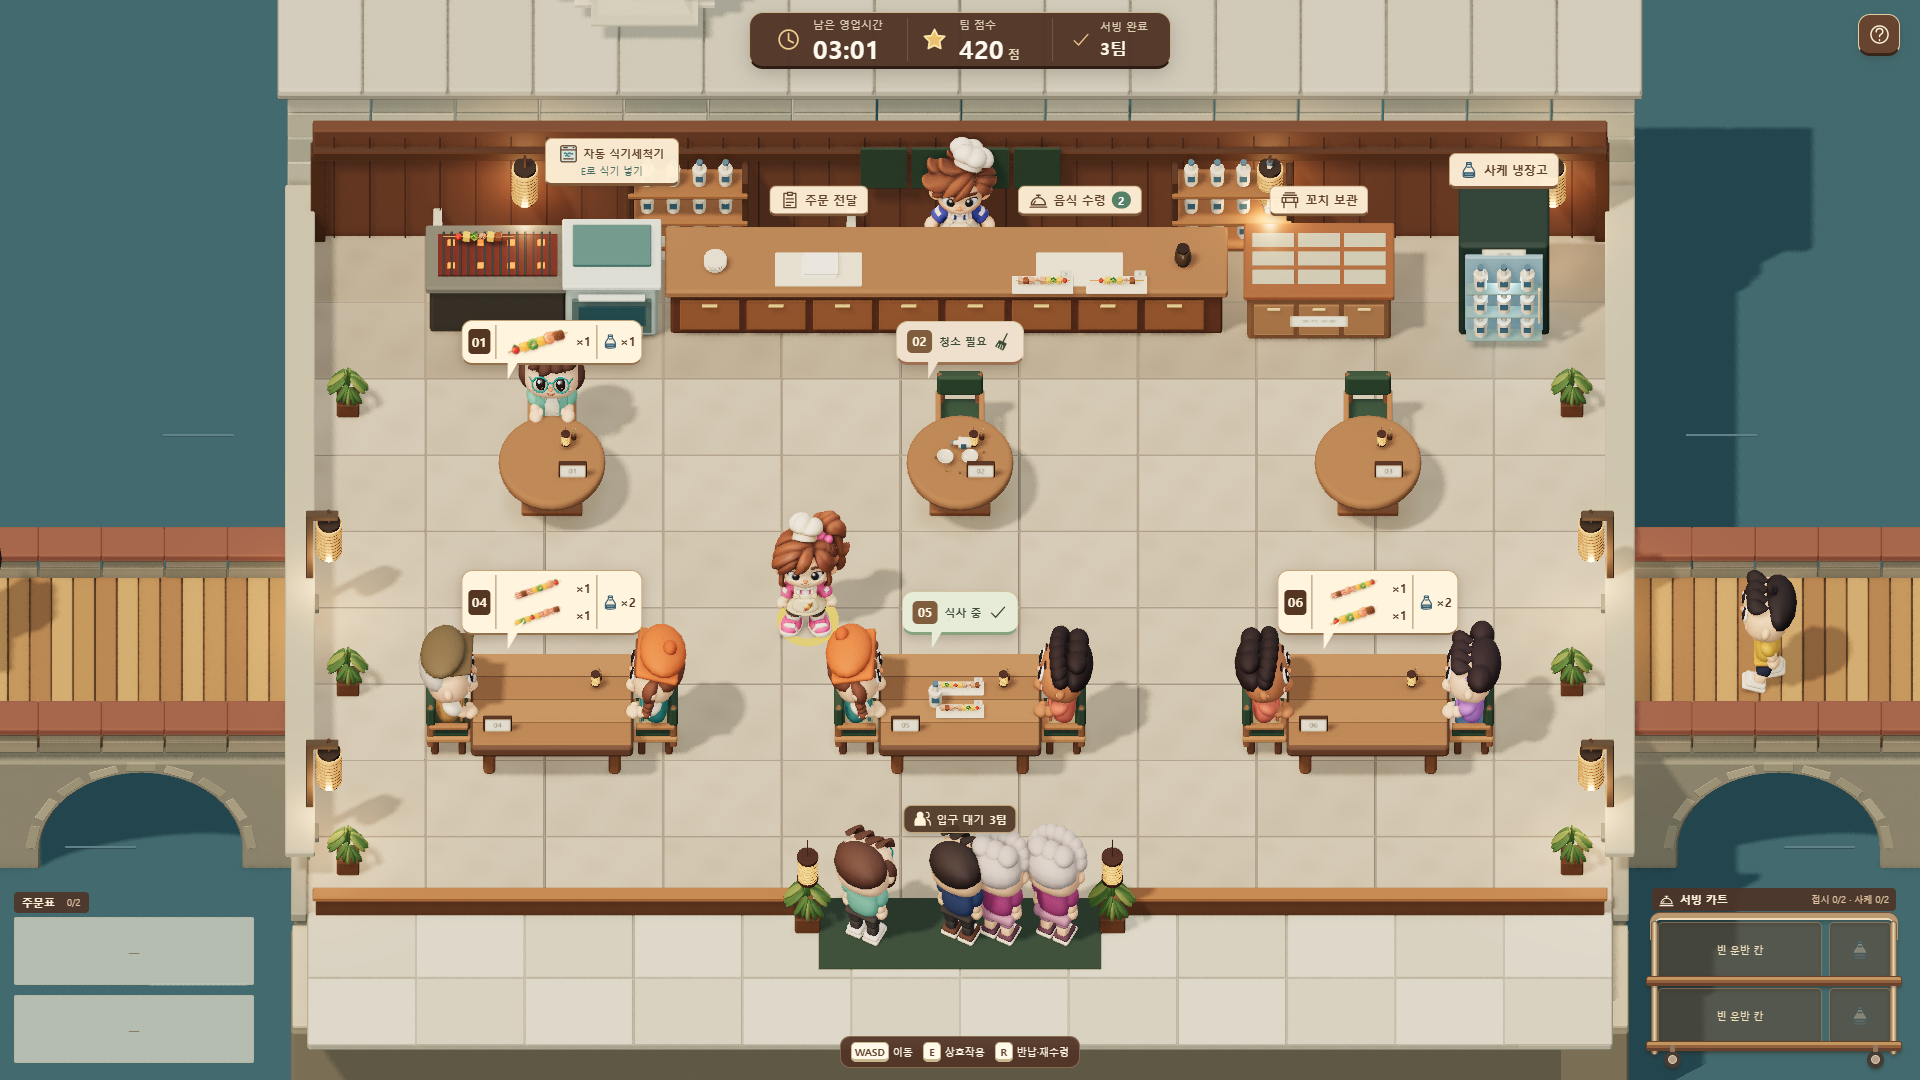
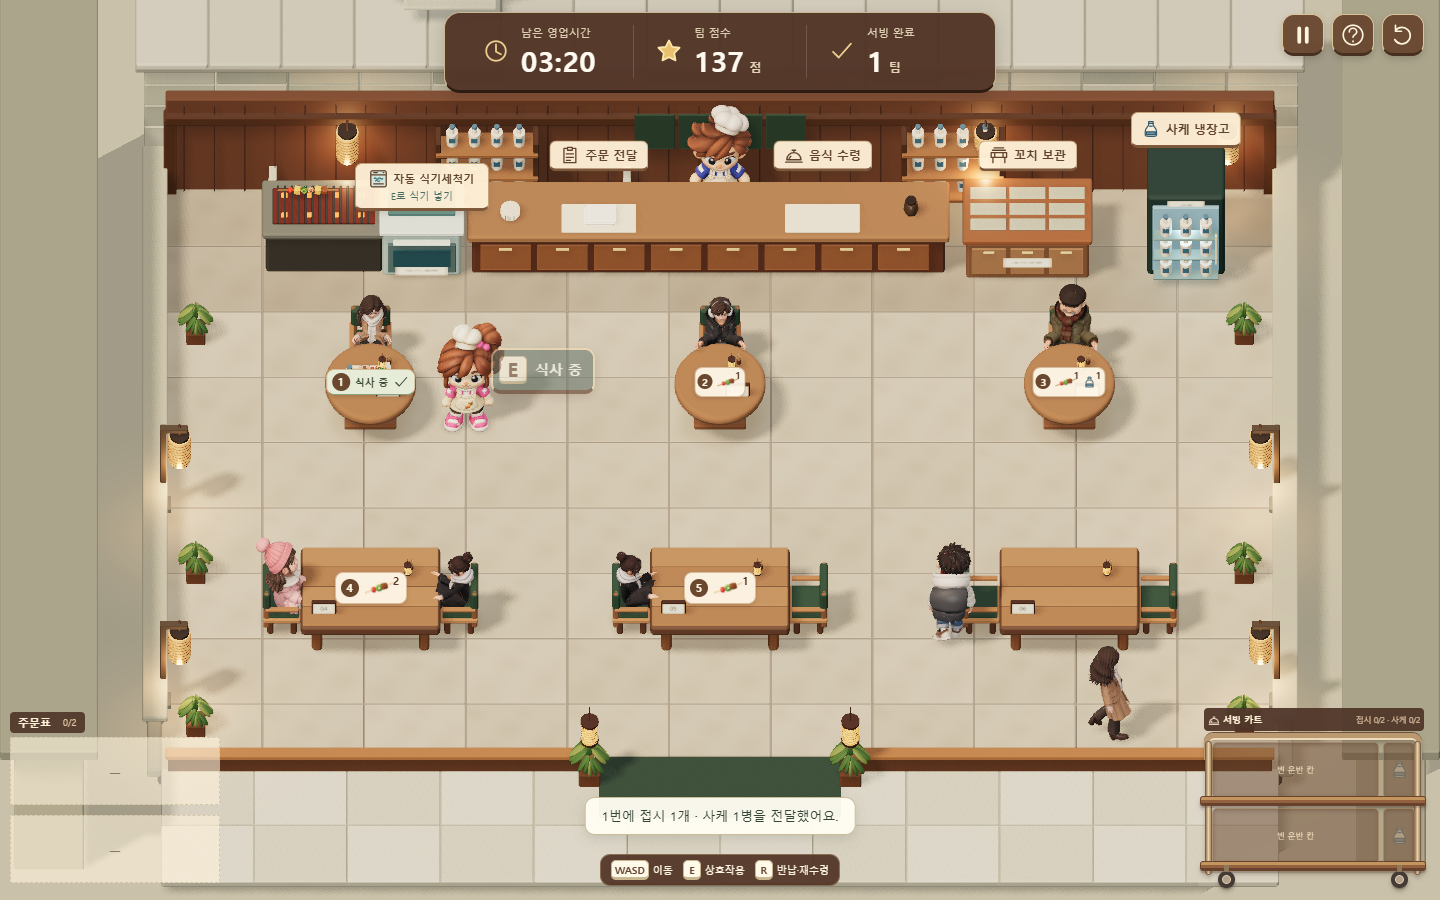
fix(skewer): 서빙 준비 화면을 최신 게임 캡처로 복원

diff --git a/frontend/src/features/skewer/coop/CoopLobby.tsx b/frontend/src/features/skewer/coop/CoopLobby.tsx
@@ -6,6 +6,7 @@ import chefRoleArt from './art/chef-role-illustration.png'
 import chefVRChoiceArt from './art/chef-vr-choice-illustration.png'
 import chefPCChoiceArt from './art/chef-pc-choice-illustration.png'
 import serverRoleArt from './art/server-role-illustration.png'
+import serviceHallPreview from './art/service-hall-preview.png'
 import type { CoopClient } from './client'
 import { CoopRoomBrowser } from './CoopRoomBrowser'
 import { SKEWER_CHEF_VR_ENABLED } from './availability'
@@ -97,8 +98,8 @@ export function CoopLobby({ client, onClose, onEquipment, chefMode, onChefMode }
         </> : role ? <>
         <div className="coop-prep-nav"><button disabled={acting || player?.ready || pub.chefVR && role === 'chef'} onClick={() => setChangingRole(true)}>← 역할 다시 고르기</button>{role === 'chef' ? <button disabled={acting || player?.ready || pub.chefVR} onClick={() => onChefMode(null)}>플레이 방식 바꾸기</button> : null}</div>
         <div className="coop-guide-layout">
-          <figure className="coop-guide-art"><img src={role === 'server' ? serverRoleArt : vr ? chefVRChoiceArt : chefPCChoiceArt}
-            alt={role === 'server' ? '꼬치를 손님에게 전달하는 서빙 담당 일러스트' : vr ? '컨트롤러로 꼬치를 만드는 VR 요리 일러스트' : '키보드로 꼬치를 만드는 PC 요리 일러스트'} draggable={false} />
+          <figure className="coop-guide-art"><img src={role === 'server' ? serviceHallPreview : vr ? chefVRChoiceArt : chefPCChoiceArt}
+            alt={role === 'server' ? '주문을 받고 음식을 전달하는 실제 서빙 게임 화면' : vr ? '컨트롤러로 꼬치를 만드는 VR 요리 일러스트' : '키보드로 꼬치를 만드는 PC 요리 일러스트'} draggable={false} />
             <figcaption>{role === 'server' ? '홀의 동선은 내가 책임져요' : vr ? '직접 집고 꽂는 나만의 주방' : '키보드와 마우스로 완성하는 꼬치'}</figcaption>
           </figure>
           <div className="coop-role-guide"><ol>{(role === 'chef' && vr ? CHEF_VR_STEPS : steps[role]).map(([title, description], index) => <li key={title}><b aria-hidden="true">{index + 1}</b><div><h2>{title}</h2><p>{description}</p></div></li>)}</ol>
